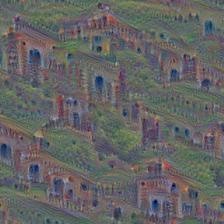
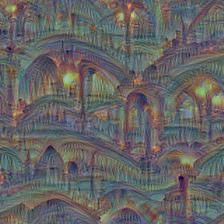
update

diff --git a/codes/104_DeepDream.py b/codes/104_DeepDream.py
@@ -10,7 +10,7 @@ from PIL import Image
 import requests, os, zipfile
 
 MODEL_PATH = './models/tensorflow_inception_graph.pb'
-IMAGE_PATH = "./example_images/morvan.jpg"
+IMAGE_PATH = "./example_images/morvan_large.jpg"
 
 
 def maybe_download(model_path):
@@ -83,7 +83,7 @@ def calc_grad_tiled(img, t_grad, tile_size=512):
     return np.roll(np.roll(grad, -sx, 1), -sy, 0)
 
 
-def render_deepdream(tf_obj, img0, save_path, iter_n=20, step=1.5, octave_n=4, octave_scale=1.4):
+def render_deepdream(tf_obj, img0, save_path, iter_n=50, step=1.5, octave_n=4, octave_scale=1.4):
     # backprop from this tf_obj
     t_score = tf.reduce_mean(tf_obj)                # defining the optimization objective
     t_grad = tf.gradients(t_score, tf_input)[0]     # the impact on the input layer
@@ -112,14 +112,14 @@ def render_deepdream(tf_obj, img0, save_path, iter_n=20, step=1.5, octave_n=4, o
 
 # picking a layer and channel from tensorboard to visualize
 layer = 'mixed4d_3x3_bottleneck_pre_relu'
-channel = 65
+channel = 66
 os.makedirs('./results', exist_ok=True)
 output_path = './results/' + layer + '_%i.jpeg' % channel
 layer_channel = graph.get_tensor_by_name("import/%s:0" % layer)[:, :, :, channel]
 
 # test on a noise image
 img_noise = np.random.uniform(size=(224, 224, 3)) + 100.0
-render_deepdream(layer_channel, img_noise, './results/noise_dream.jpeg')
+# render_deepdream(layer_channel, img_noise, './results/noise_dream.jpeg')
 
 # test on a real image
 img = Image.open(IMAGE_PATH)
